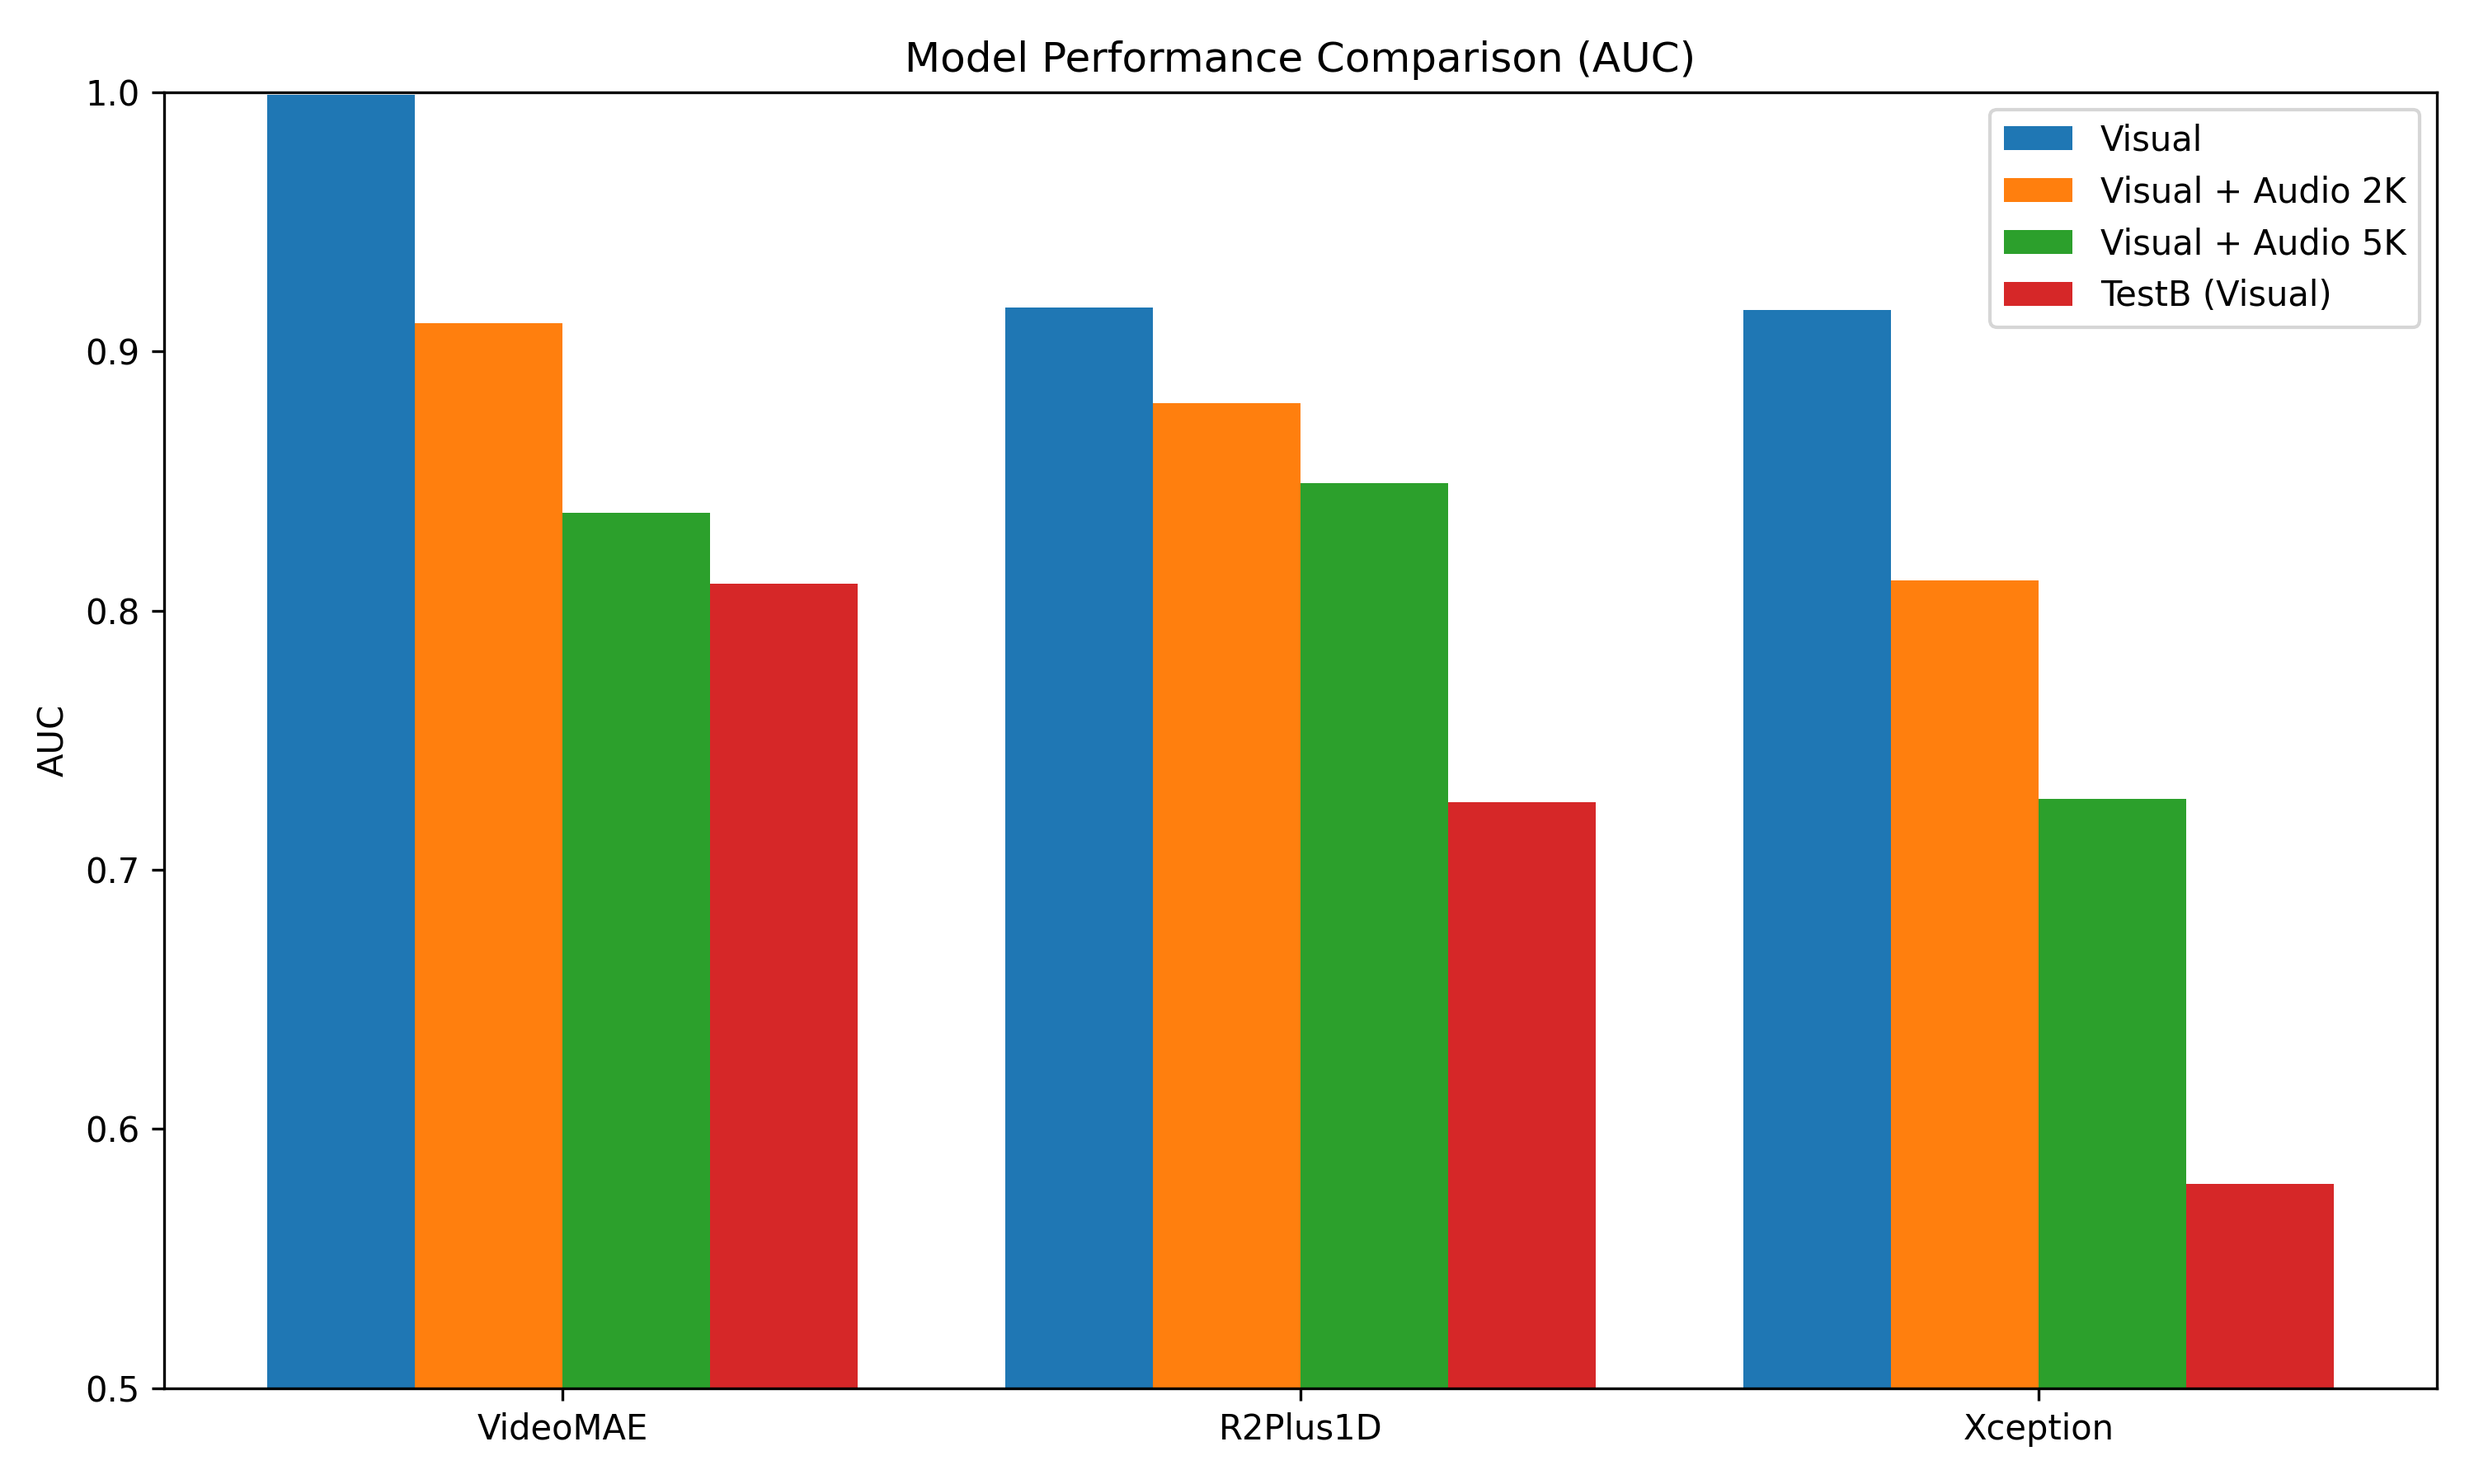
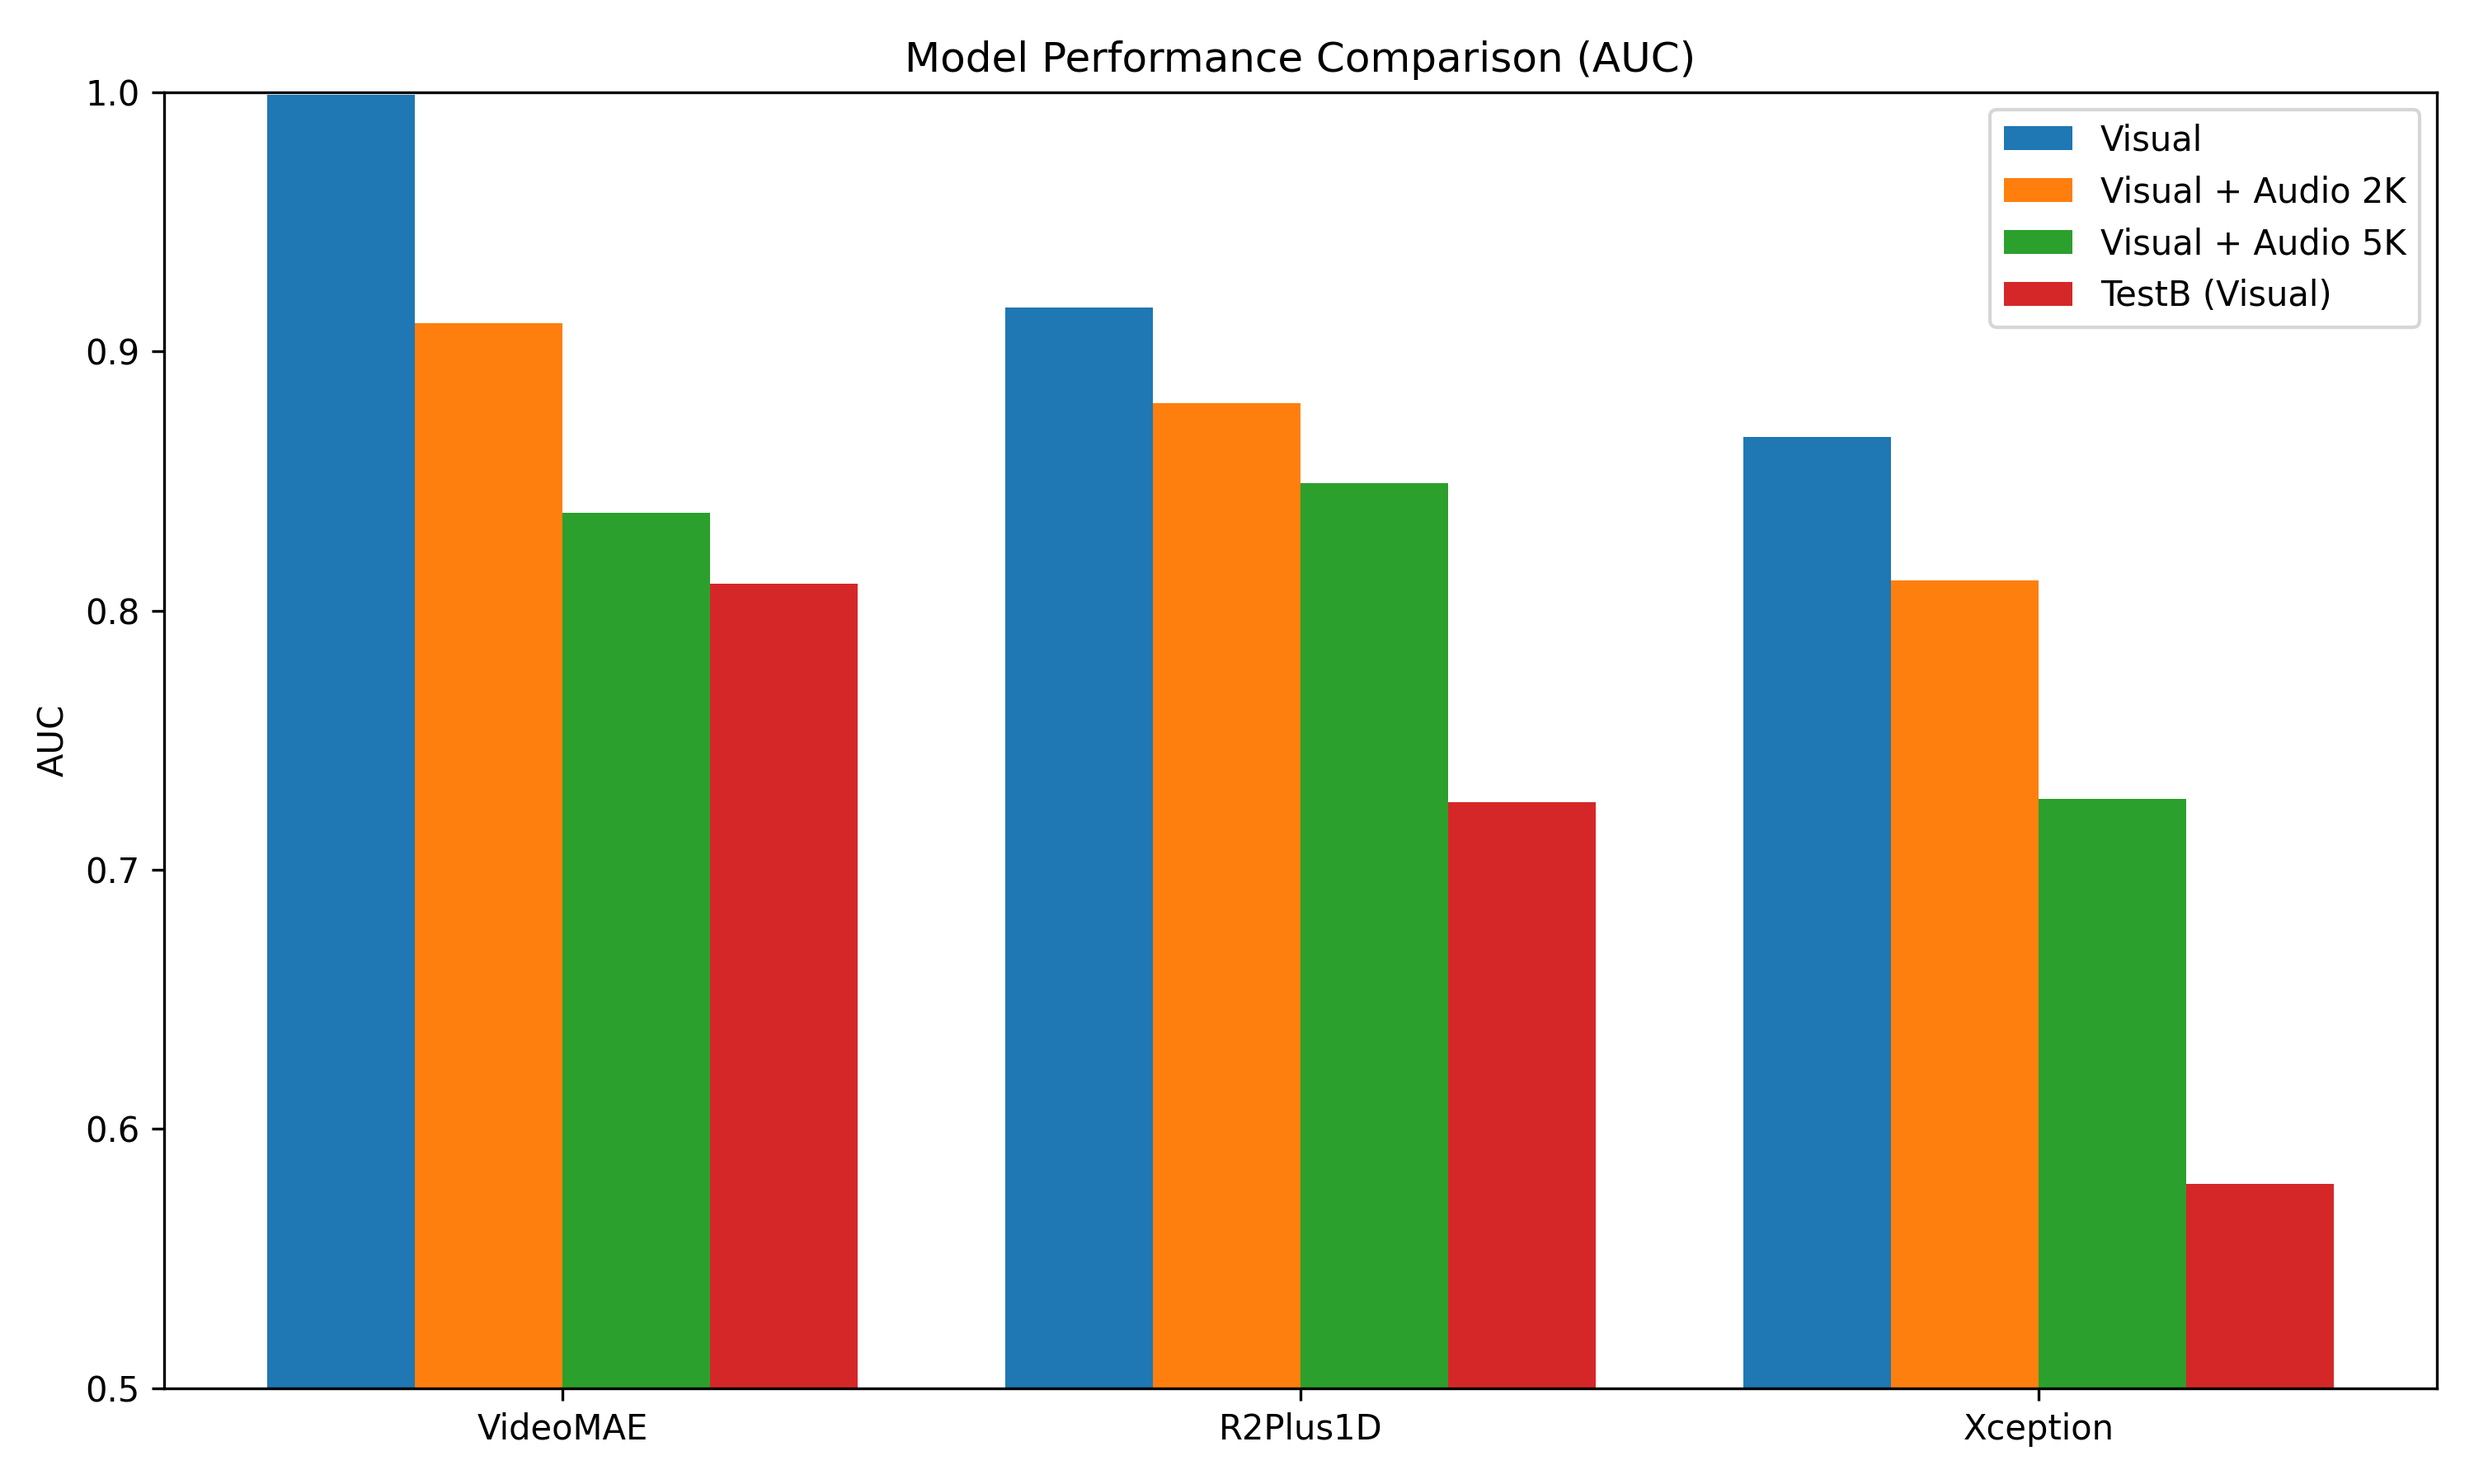
fix: add weight link

Changed region(s): [[0.682, 0.1867, 0.775, 0.3111]]

diff --git a/helper/plot.py b/helper/plot.py
@@ -4,7 +4,7 @@ import matplotlib.pyplot as plt
 
 models = ["VideoMAE", "R2Plus1D", "Xception"]
 
-visual = [0.9989, 0.9169, 0.9161]
+visual = [0.9989, 0.9169, 0.8671]
 audio_2k = [0.9110, 0.8802, 0.8118]
 audio_5k = [0.8377, 0.8493, 0.7273]
 testb = [0.8103, 0.7261, 0.5788]

diff --git a/example.md b/example.md
@@ -18,6 +18,27 @@ To replicate the environment used for this project, follow these steps:
     ```
 ---
 
+---
+
+## 0.5. Download Pre-trained Weights
+
+Pre-trained model weights for Xception, R(2+1)D, and VideoMAE V2 are available for download.
+
+1.  **Download from Google Drive**:
+    Please download the weights from the following [Google Drive link](https://drive.google.com/drive/folders/1Foz4sQVNeFc2IR_1m0zp_gZ2zBwdpvO5)
+
+2.  **Usage**:
+    The downloaded `.ckpt` files can be used with the `models/infer.py` script by specifying the `--checkpoint` argument. For example:
+    ```bash
+    python models/infer.py \
+        --checkpoint /path/to/your/downloaded_model.ckpt \
+        --model videomae_v2 \
+        # ... other arguments
+    ```
+    Ensure the `--model` argument matches the architecture of the downloaded checkpoint.
+
+---
+
 ## 1. Training
 
 Run the following commands to train each model. Paths refer to the standard dataset location on the cluster.

diff --git a/README.md b/README.md
@@ -122,6 +122,23 @@ The project generates a comparison plot `grouped_model_auc.png` showing the AUC 
 
 ![Model Comparison](fig/grouped_model_auc.png)
 
+### Performance Table (AUC)
+
+| Test Set | VideoMAE | R2Plus1D | Xception |
+| :--- | :---: | :---: | :---: |
+| Standard | 0.9989 | 0.9169 | 0.8671 |
+| Audio5K | 0.8377 | 0.8493 | 0.7273 |
+| Audio2K | 0.9110 | 0.8802 | 0.8118 |
+| TestB | 0.8103 | 0.7261 | 0.5788 |
+
+## 💾 Model Checkpoints
+
+We provide pre-trained weights for our models.
+
+**[Download from Google Drive](https://drive.google.com/drive/folders/1Foz4sQVNeFc2IR_1m0zp_gZ2zBwdpvO5?usp=drive_link)**
+
+Please download the available pre-trained model weights. These checkpoints can be used for inference or fine-tuning.
+
 ---
 *Created for the Computer Vision Final Project.*
 
